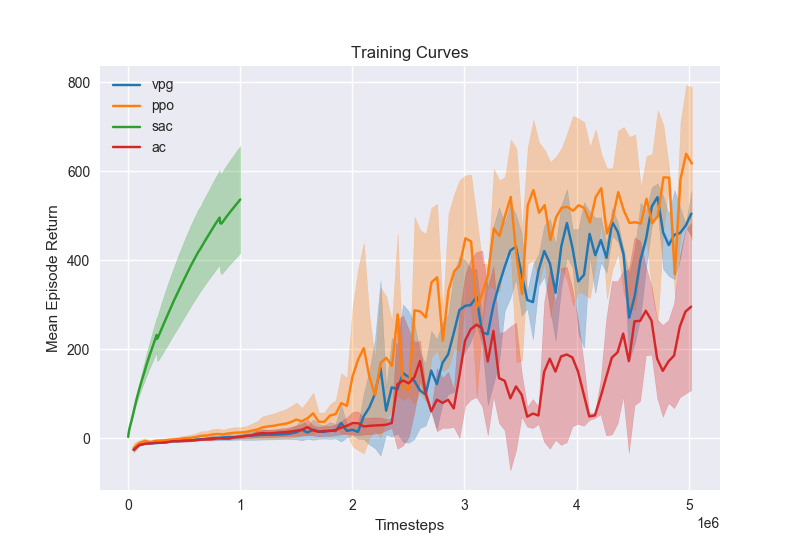
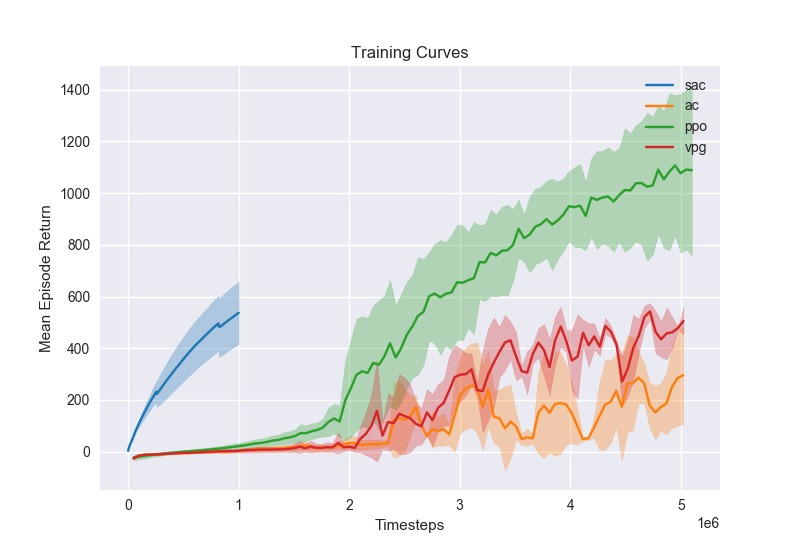
added PPO HC

diff --git a/run/compare/compare.py b/run/compare/compare.py
@@ -53,6 +53,6 @@ def compare_half_cheetah():
 
 if __name__ == "__main__":
     # compare_cartpole()
-    compare_inverted_pendulum()
+    # compare_inverted_pendulum()
     # compare_lander()
-    # compare_half_cheetah()
+    compare_half_cheetah()
